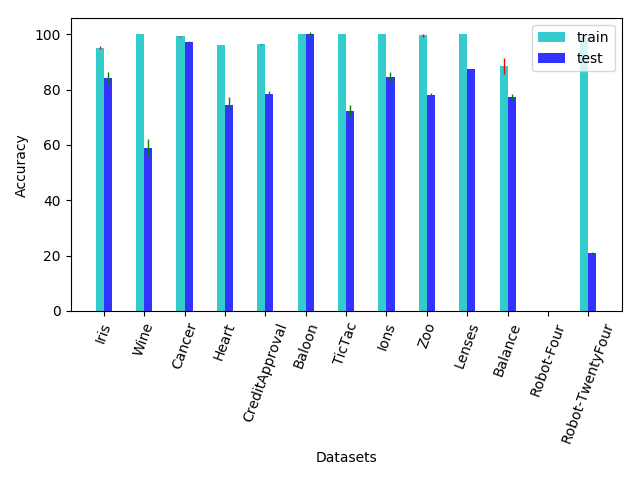
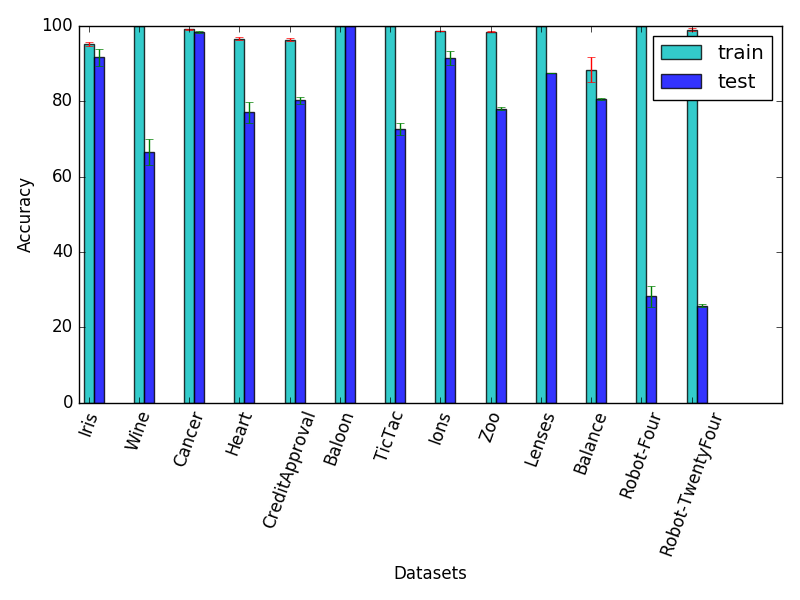
new reults

diff --git a/main.py b/main.py
@@ -284,7 +284,7 @@ class MCMC:
             diff = min(700, diff_prior + diff_likelihood + diff_prop)
 
             # print()
-            print(diff, i )
+            # print(diff, i )
             mh_prob = min(1, math.exp(diff))
             # print(mh_prob)
 
@@ -303,7 +303,7 @@ class MCMC:
                 eta = eta_pro
 
                 elapsed_time = ":".join(covert_time(int(time.time()-start)))
-                #sys.stdout.write('\r' + file + ' : ' + str(round(float(i) / (samples - 1) * 100, 2)) + '% complete....'+" time elapsed: " + elapsed_time)
+                sys.stdout.write('\r' + file + ' : ' + str("{:.2f}".format(float(i) / (samples - 1) * 100)) + '% complete....'+" time elapsed: " + elapsed_time)
                 # print  likelihood, prior_current, diff_prop, rmsetrain, rmsetest, w, 'accepted'
                 #print w_proposal, 'w_proposal'
                 #print w_gd, 'w_gd'
@@ -350,7 +350,7 @@ def main():
     hidden = np.array([6, 6, 6, 16, 20, 5, 30, 8, 6, 5, 8, 14, 14])
     output = np.array([2, 3, 1, 1, 1, 1, 1, 1, 7, 3, 3, 4, 4])
 
-    samplelist = [5000, 8000, 10000, 20000, 15000, 5000, 20000, 5000, 3000, 5000, 2000, 20000, 10000]
+    samplelist = [5000, 8000, 10000, 20000, 15000, 5000, 20000, 5000, 3000, 5000, 2000, 10000, 10000]
     x = 3
 
     filetrain = open('Results/train.txt', 'r')
@@ -378,7 +378,7 @@ def main():
         #w_limit =  0.02
         #tau_limit = 0.1
 
-    for problem in [11]:
+    for problem in problemlist:
 
         #if os.path.isfile("Results/"+filenames[problem]+"_rmse.txt"):
         #    print filenames[problem]
@@ -395,7 +395,7 @@ def main():
         mcmc = MCMC(numSamples, traindata, testdata, topology)  # declare class
 
         [pos_w, pos_tau, fx_train, fx_test, x_train, x_test, rmse_train, rmse_test, accept_ratio] = mcmc.sampler(w_limit, tau_limit, filenames[problem])
-        print 'sucessfully sampled: '+ str(accept_ratio)+ ' samples accepted'
+        print '\nsucessfully sampled: '+ str(accept_ratio)+ ' samples accepted'
 
         burnin = 0.1 * numSamples  # use post burn in samples
 
@@ -440,7 +440,7 @@ def main():
         for fx in fx_test:
             count = 0
             for index in range(fx.shape[0]):
-                if np.isclose(fx[index],ytestdata[index],atol = 0.2).all():
+                if np.isclose(fx[index],ytestdata[index],atol = 0.5).all():
                     count += 1
             test_acc.append(float(count)/fx.shape[0]*100)
        
